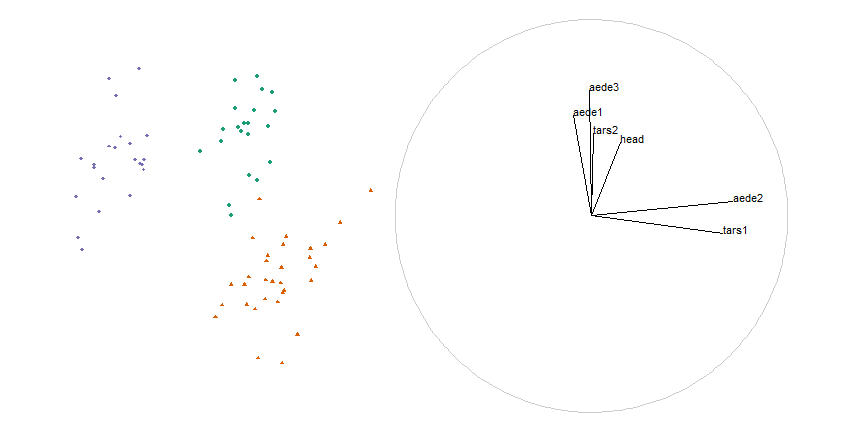
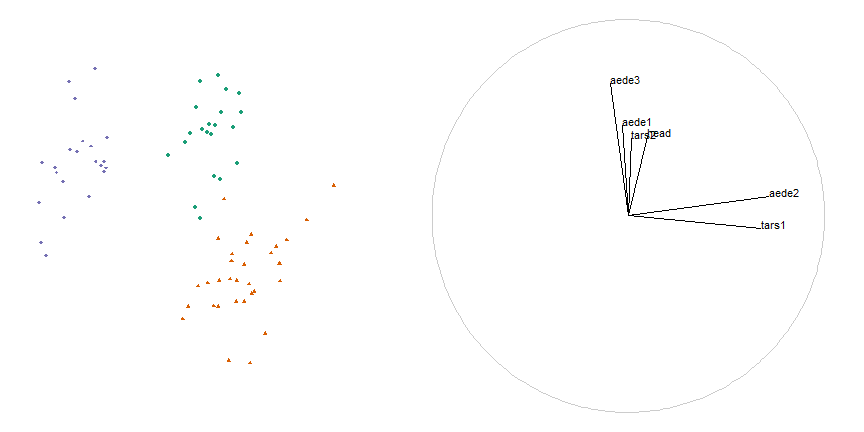
wording and lit slide

diff --git a/slides_ns.html b/slides_ns.html
@@ -65,25 +65,6 @@ guided tour - optimizing holes index:
 
 ---
 
-# 2D vs 3D low-dimensional embeddings
-
-.pull-left[
-&lt;img src="./images/nelson98fig.PNG" width="100%" height="100%" style="display: block; margin: auto;" /&gt;
-
-- 2D tours: head tracked VR vs standard monitor
-*Nelson et al. 1998*
-]
-
-.pull-right[
-Related papers report improved accuracy, precision, and ease of identifying information, but decreased speed and comfort
-
-- 2D and 3D scatterplots of PCA (linear projection) on standard monitor, *Gracia et al. 2016*
-- 2D and 3D scatterplots of PCA (linear projection) on standard monitor and head mounted VR, *Wagner et al. 2018*
-- 2D tours: head tracked VR vs standard monitor, *Nelson et al. 1998*
-]
-
----
-
 # Research question
 
 .large[
@@ -105,7 +86,7 @@ of the sensitivity of structure to the original variables or parameters? **
 
 **RO #A) Can user controlled steering (UCS) be utilized in an environment providing non-interactive animation?**
 
-**Work in the last year:**
+*Work in the last year:*
 
 - Manual choice - *manual tour* selecting a variable and manipulation *Cook &amp; Buja 1997*
     - R implementation via the package `spinifex`, available on [github.com/nspyrison/spinifex](https://github.com/nspyrison/spinifex)
@@ -117,14 +98,12 @@ of the sensitivity of structure to the original variables or parameters? **
 
 # Supply a basis, select a variable
 
-**Work in the last year:**
-
 - Start with the last projection of the previous guided tour:
 
 
 
 .pull-left[
-&lt;img src="slides_ns_files/figure-html/unnamed-chunk-5-1.png" width="130%" height="130%" style="display: block; margin: auto;" /&gt;
+&lt;img src="slides_ns_files/figure-html/unnamed-chunk-4-1.png" width="130%" height="130%" style="display: block; margin: auto;" /&gt;
 ]
 
 .pull-right[
@@ -139,33 +118,33 @@ of the sensitivity of structure to the original variables or parameters? **
 &lt;tbody&gt;
   &lt;tr&gt;
    &lt;td style="text-align:left;"&gt; tars1 &lt;/td&gt;
-   &lt;td style="text-align:right;"&gt; 0.6645 &lt;/td&gt;
-   &lt;td style="text-align:right;"&gt; -0.1273 &lt;/td&gt;
+   &lt;td style="text-align:right;"&gt; 0.6802 &lt;/td&gt;
+   &lt;td style="text-align:right;"&gt; -0.0635 &lt;/td&gt;
   &lt;/tr&gt;
   &lt;tr&gt;
    &lt;td style="text-align:left;"&gt; tars2 &lt;/td&gt;
-   &lt;td style="text-align:right;"&gt; -0.0057 &lt;/td&gt;
-   &lt;td style="text-align:right;"&gt; 0.4892 &lt;/td&gt;
+   &lt;td style="text-align:right;"&gt; 0.0152 &lt;/td&gt;
+   &lt;td style="text-align:right;"&gt; 0.3956 &lt;/td&gt;
   &lt;/tr&gt;
   &lt;tr&gt;
    &lt;td style="text-align:left;"&gt; head &lt;/td&gt;
-   &lt;td style="text-align:right;"&gt; 0.2024 &lt;/td&gt;
-   &lt;td style="text-align:right;"&gt; 0.3419 &lt;/td&gt;
+   &lt;td style="text-align:right;"&gt; 0.0986 &lt;/td&gt;
+   &lt;td style="text-align:right;"&gt; 0.4068 &lt;/td&gt;
   &lt;/tr&gt;
   &lt;tr&gt;
    &lt;td style="text-align:left;"&gt; aede1 &lt;/td&gt;
-   &lt;td style="text-align:right;"&gt; -0.0330 &lt;/td&gt;
-   &lt;td style="text-align:right;"&gt; 0.5271 &lt;/td&gt;
+   &lt;td style="text-align:right;"&gt; -0.0312 &lt;/td&gt;
+   &lt;td style="text-align:right;"&gt; 0.4604 &lt;/td&gt;
   &lt;/tr&gt;
   &lt;tr&gt;
    &lt;td style="text-align:left;"&gt; aede2 &lt;/td&gt;
-   &lt;td style="text-align:right;"&gt; 0.7139 &lt;/td&gt;
-   &lt;td style="text-align:right;"&gt; -0.0175 &lt;/td&gt;
+   &lt;td style="text-align:right;"&gt; 0.7199 &lt;/td&gt;
+   &lt;td style="text-align:right;"&gt; 0.1000 &lt;/td&gt;
   &lt;/tr&gt;
   &lt;tr&gt;
    &lt;td style="text-align:left;"&gt; aede3 &lt;/td&gt;
-   &lt;td style="text-align:right;"&gt; 0.0813 &lt;/td&gt;
-   &lt;td style="text-align:right;"&gt; 0.5912 &lt;/td&gt;
+   &lt;td style="text-align:right;"&gt; -0.0902 &lt;/td&gt;
+   &lt;td style="text-align:right;"&gt; 0.6723 &lt;/td&gt;
   &lt;/tr&gt;
 &lt;/tbody&gt;
 &lt;/table&gt;
@@ -178,7 +157,7 @@ of the sensitivity of structure to the original variables or parameters? **
 # Create a manipulation space
 
 .pull-left[
-&lt;img src="slides_ns_files/figure-html/unnamed-chunk-7-1.png" width="80%" height="80%" style="display: block; margin: auto;" /&gt;
+&lt;img src="slides_ns_files/figure-html/unnamed-chunk-6-1.png" width="80%" height="80%" style="display: block; margin: auto;" /&gt;
 ]
 
 .pull-right[
@@ -196,7 +175,7 @@ of the sensitivity of structure to the original variables or parameters? **
 
 *over a sequence of angles:* Rotate and project through manipulation space
 
-&lt;img src="slides_ns_files/figure-html/unnamed-chunk-8-1.png" width="40%" height="40%" style="display: block; margin: auto;" /&gt;
+&lt;img src="slides_ns_files/figure-html/unnamed-chunk-7-1.png" width="40%" height="40%" style="display: block; margin: auto;" /&gt;
 
 
 ---
@@ -241,12 +220,12 @@ Results:
 
 **RO #B) What benefits does UCS provide over popular alternatives?**
 
-**Future case study:**
+*Future case study:*
 
 - Principal component analysis (PCA) 
     - Static linear transformation that produces linear combinations of the variables in descending order of variation explained
 - T-distributed stochastic neighbor embedding (tSNE)
-    - Static non-linear transformation, preserves local clustering
+    - Static non-linear transformation, preserves local proximity
 - User controlled steering (USC), manual tour
     - Dynamic linear projections
 
@@ -280,6 +259,26 @@ Results:
 - Display type: 2D monitor, 3D monitor, head-mount, physical immersion
 - Task type: structure, UCS, clustering, dimensionality, outliers
 - Measures: accuracy, speed, subjective measures (Likert scale), demographic information, cross-departmental comparison(?)
+
+
+# 2D vs 3D low-dimensional embeddings
+
+.pull-left[
+&lt;img src="./images/nelson98fig.PNG" width="100%" height="100%" style="display: block; margin: auto;" /&gt;
+
+---
+
+- 2D tours: head tracked VR vs standard monitor
+*Nelson et al. 1998*
+]
+
+.pull-right[
+Related papers report improved accuracy, precision, and ease of identifying information, but decreased speed and comfort
+
+- 2D and 3D scatterplots of PCA (linear projection) on standard monitor, *Gracia et al. 2016*
+- 2D and 3D scatterplots of PCA (linear projection) on standard monitor and head mounted VR, *Wagner et al. 2018*
+- 2D tours: head tracked VR vs standard monitor, *Nelson et al. 1998*
+]
 
 ---
 
